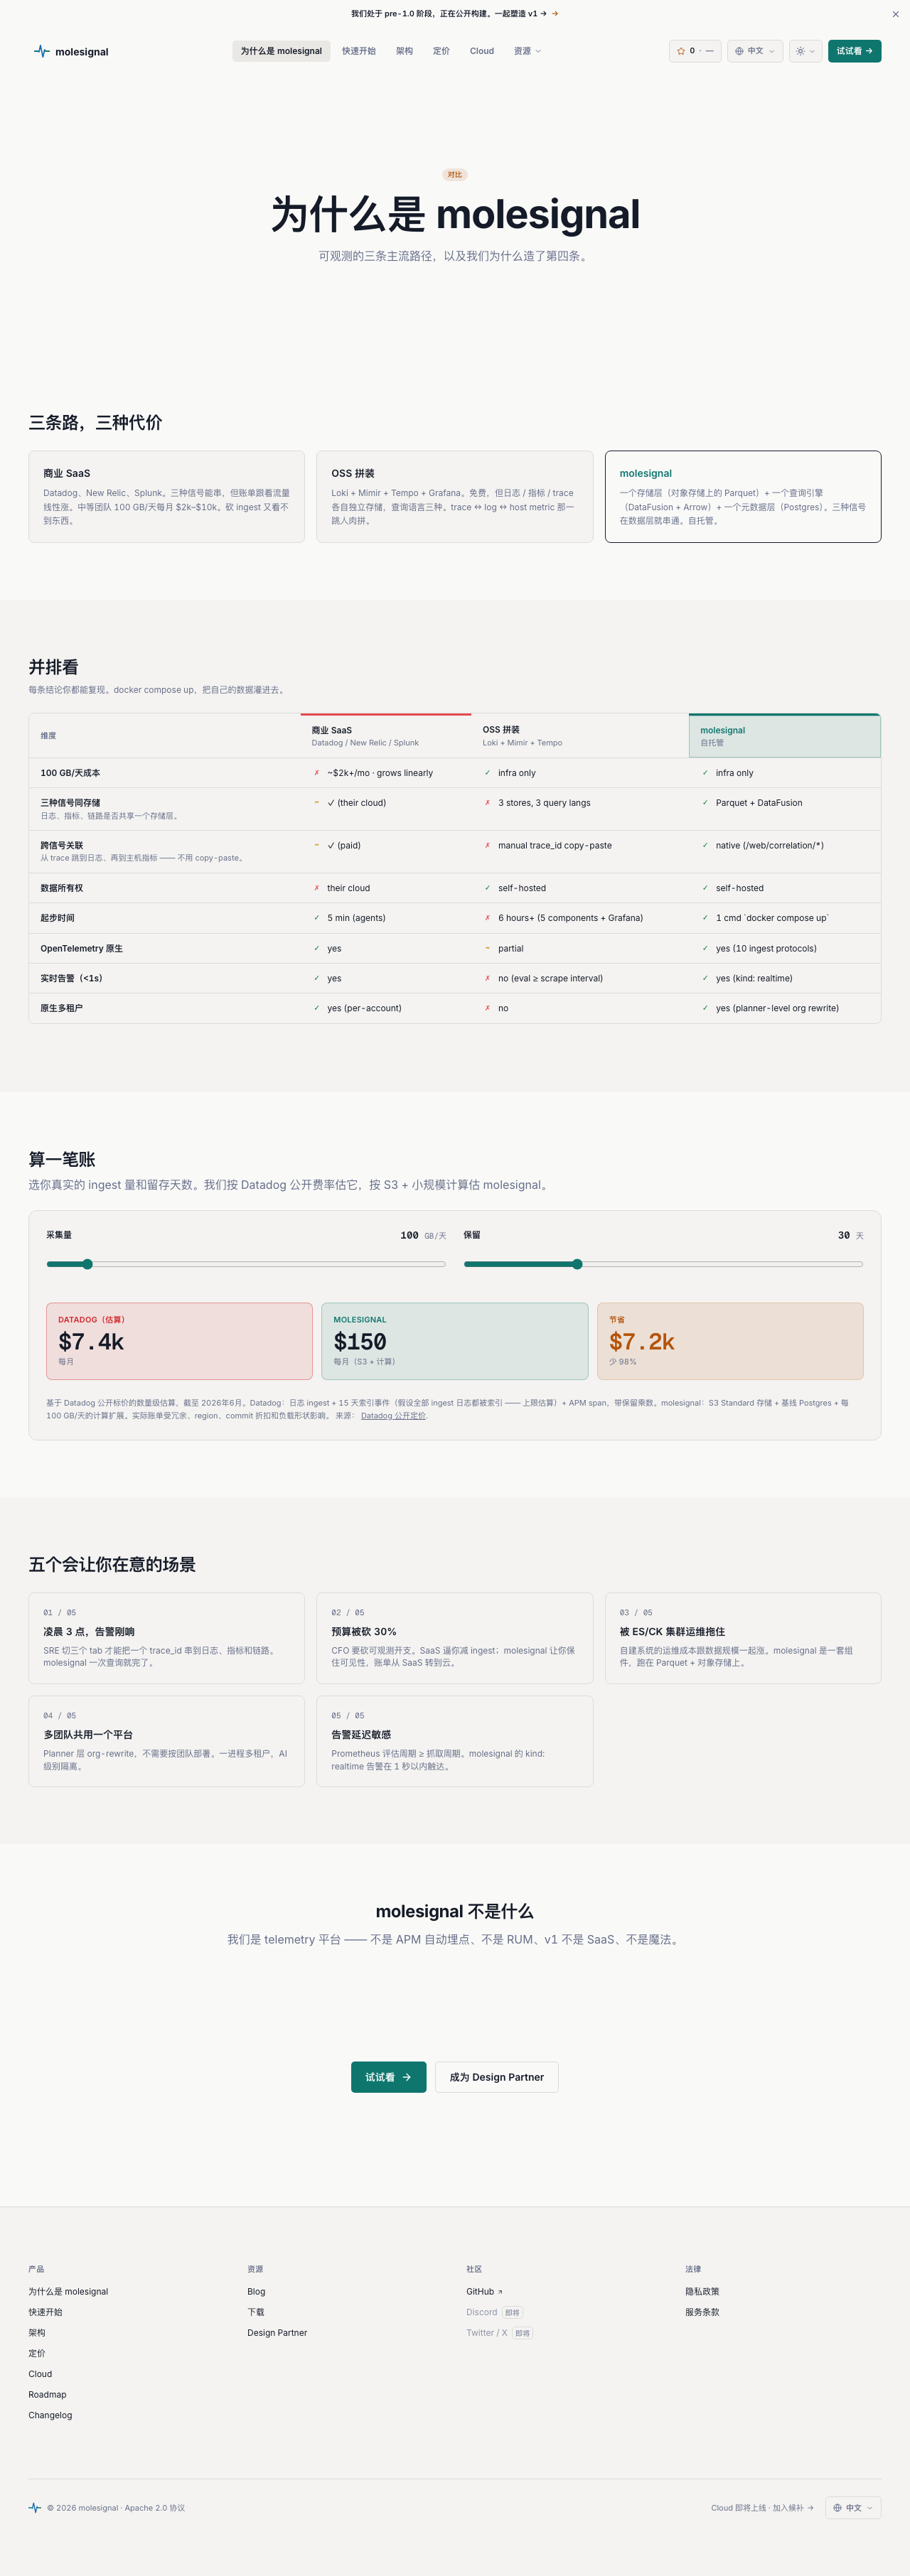
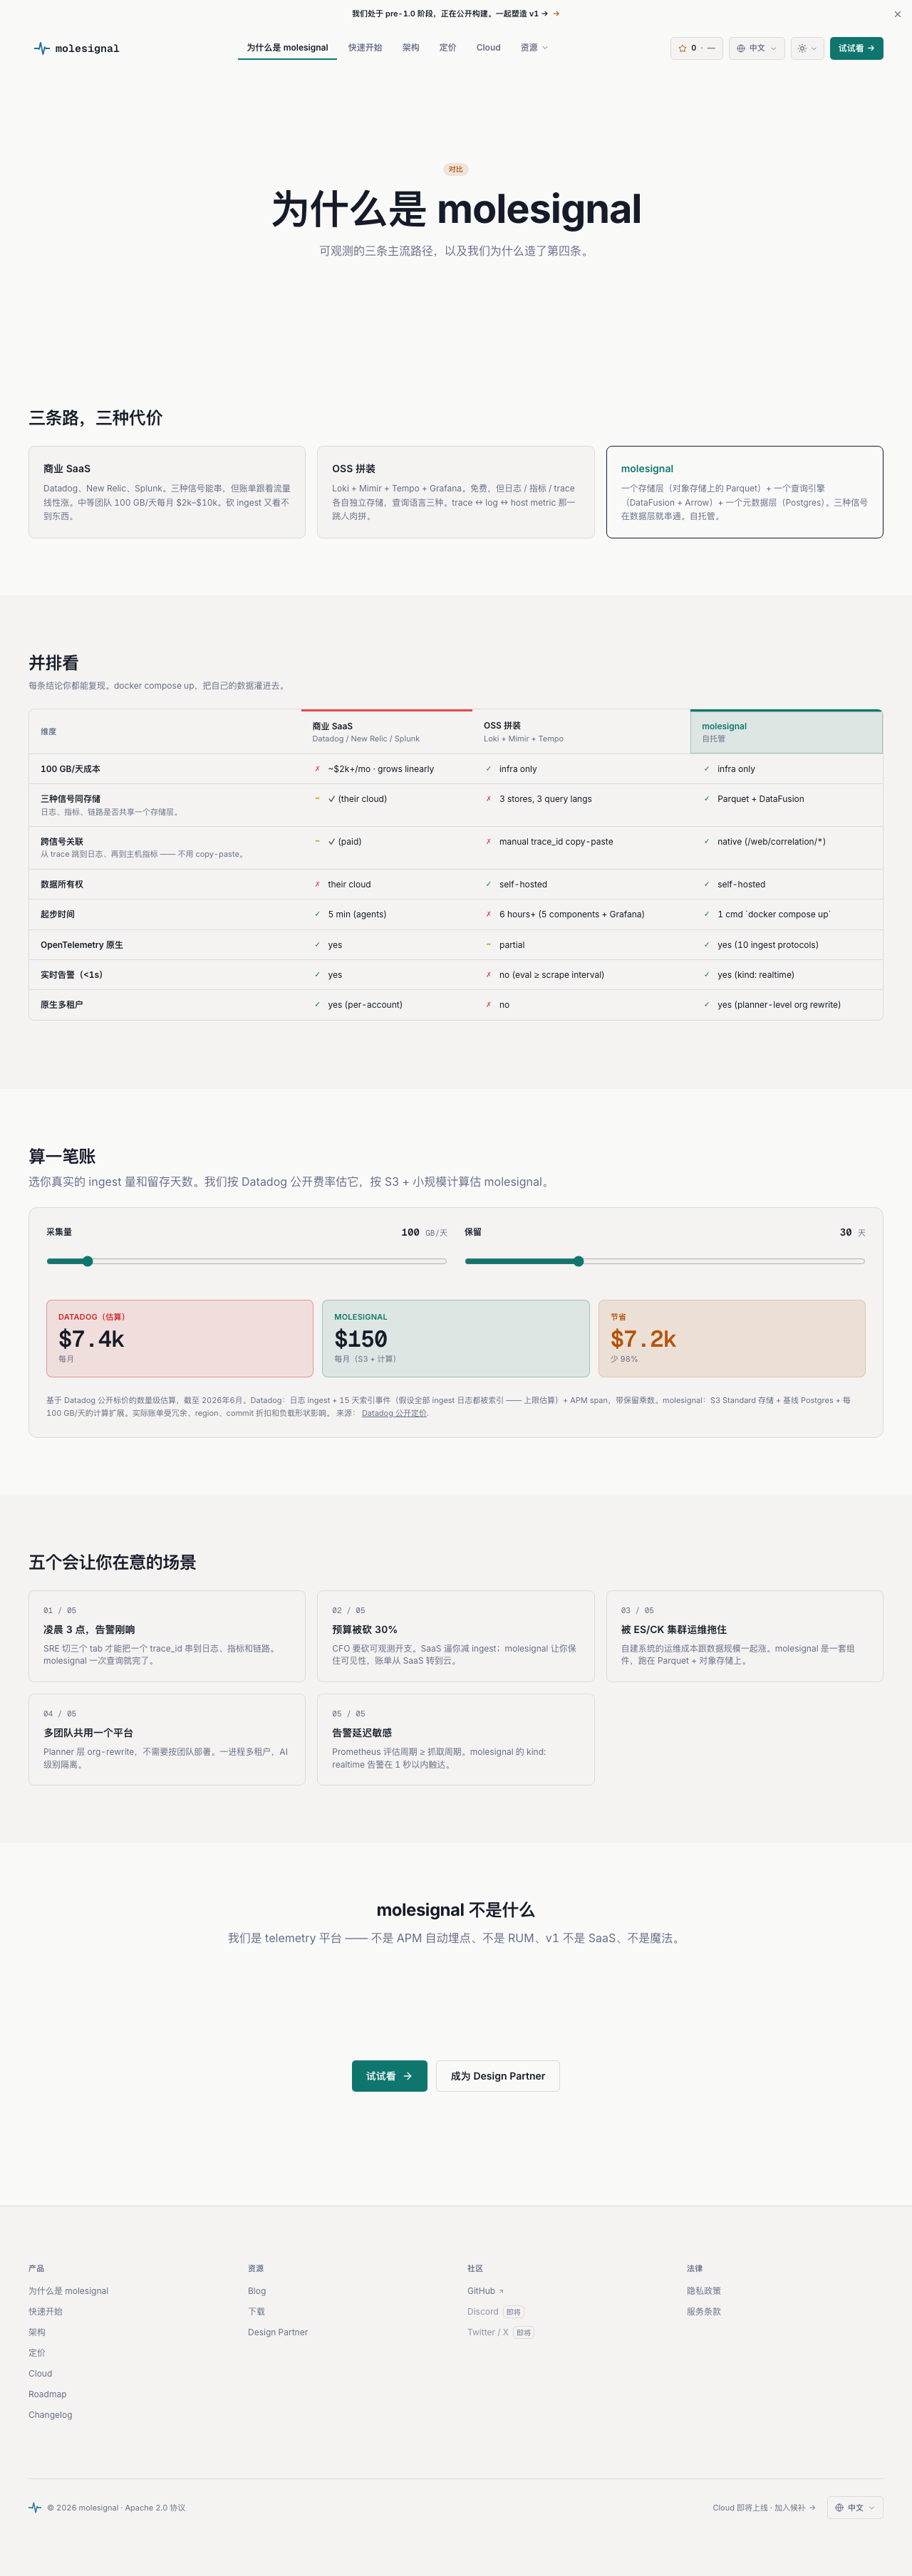
chore(ISSUE-12): 工单收尾提交(QA PASS 前)

diff --git a/tests/e2e/issue12-t08b-visual.spec.ts b/tests/e2e/issue12-t08b-visual.spec.ts
@@ -1,0 +1,201 @@
+import { expect, test } from "@playwright/test";
+
+/**
+ * ISSUE-12 / T08b — TopNav / Footer / Pill / Button visual redesign regression.
+ *
+ * Same central risk as ISSUE-10/11: a migrated design token (font-mono-strong,
+ * text-mono-lg, shadow-glow-brand, bg-brand-dim, border-brand, backdrop-blur-md)
+ * could compile to NOTHING and silently render wrong. So colour/blur assertions
+ * read the *computed* style, not just a class name.
+ *
+ *   AC1 TopNav: 56px tall; brand wordmark monospace; active item is a 2px brand
+ *       UNDERLINE (bottom border) not a filled bg pill; scroll → backdrop-blur.
+ *   AC2 Footer: 4 column titles; T04 disabled links (Discord/Twitter) keep
+ *       aria-disabled; muted default / hover-to-fg link colour.
+ *   AC3 Pill brand variant: real bg-brand-dim fill + brand border + brand text.
+ *       Button brand CTA renders with a real bg fill.
+ *   AC4 (T04 not broken): footer Download anchors /start#install; github extern.
+ */
+
+const ROOT = ""; // default locale (en) served at site root
+
+async function readColor(
+  locator: import("@playwright/test").Locator,
+  prop: "backgroundColor" | "borderBottomColor" | "borderColor" | "color",
+): Promise<[number, number, number, number]> {
+  return locator.evaluate((el, p) => {
+    const raw = getComputedStyle(el)[p as keyof CSSStyleDeclaration] as string;
+    const cvs = document.createElement("canvas");
+    cvs.width = cvs.height = 1;
+    const ctx = cvs.getContext("2d")!;
+    ctx.clearRect(0, 0, 1, 1);
+    ctx.fillStyle = raw;
+    ctx.fillRect(0, 0, 1, 1);
+    const d = ctx.getImageData(0, 0, 1, 1).data;
+    return [d[0], d[1], d[2], d[3] / 255] as [number, number, number, number];
+  }, prop);
+}
+function isPainted(rgba: [number, number, number, number]): boolean {
+  return rgba[3] > 0.001;
+}
+
+// ---------------------------------------------------------------------------
+// AC1 — TopNav
+// ---------------------------------------------------------------------------
+test.describe("[en] T08b TopNav", () => {
+  test("AC1 — nav bar is 56px tall + brand wordmark is monospace", async ({
+    page,
+  }) => {
+    await page.goto(`${ROOT}/`);
+    await page.waitForLoadState("networkidle");
+
+    const bar = page.locator("header .h-nav").first();
+    await expect(bar).toBeVisible();
+    const box = await bar.boundingBox();
+    expect(box).not.toBeNull();
+    expect(Math.round(box!.height)).toBe(56);
+
+    const wordmark = page.locator("header span", { hasText: "molesignal" }).first();
+    await expect(wordmark).toBeVisible();
+    const ff = await wordmark.evaluate((el) => getComputedStyle(el).fontFamily);
+    expect(ff.toLowerCase()).toMatch(/mono/);
+  });
+
+  test("AC1 — active nav item is a 2px brand UNDERLINE, not a filled pill", async ({
+    page,
+  }) => {
+    await page.goto(`${ROOT}/why`);
+    await page.waitForLoadState("networkidle");
+
+    // The /why primary link is active on /why.
+    const active = page
+      .locator('header nav a[href$="/why"]')
+      .first();
+    await expect(active).toBeVisible();
+
+    const bw = await active.evaluate(
+      (el) => getComputedStyle(el).borderBottomWidth,
+    );
+    expect(parseFloat(bw)).toBeGreaterThanOrEqual(2);
+    // bottom border is a painted brand colour …
+    expect(isPainted(await readColor(active, "borderBottomColor"))).toBe(true);
+    // … and it is an underline, NOT a filled background pill.
+    expect(isPainted(await readColor(active, "backgroundColor"))).toBe(false);
+  });
+
+  test("AC1 — scrolling past 80px gives the header a backdrop-blur", async ({
+    page,
+  }) => {
+    await page.goto(`${ROOT}/`);
+    await page.waitForLoadState("networkidle");
+    const header = page.locator("header").first();
+
+    // at top: transparent, no blur
+    await page.evaluate(() => window.scrollTo(0, 0));
+    await page.waitForTimeout(100);
+
+    // scroll down well past the 80px threshold
+    await page.evaluate(() => window.scrollTo(0, 600));
+    await page.waitForTimeout(250);
+
+    const bf = await header.evaluate((el) => {
+      const s = getComputedStyle(el);
+      return (
+        (s.backdropFilter || (s as unknown as Record<string, string>)["webkitBackdropFilter"]) ?? ""
+      );
+    });
+    expect(bf.toLowerCase()).toMatch(/blur/);
+    // and the surface now paints a (semi-opaque) background
+    expect(isPainted(await readColor(header, "backgroundColor"))).toBe(true);
+  });
+});
+
+// ---------------------------------------------------------------------------
+// AC2 — Footer
+// ---------------------------------------------------------------------------
+test.describe("[en] T08b Footer", () => {
+  test.beforeEach(async ({ page }) => {
+    await page.goto(`${ROOT}/`);
+    await page.waitForLoadState("networkidle");
+  });
+
+  test("AC2 — four column titles render", async ({ page }) => {
+    const titles = page.locator("footer h3");
+    await expect(titles).toHaveCount(4);
+  });
+
+  test("AC2 — T04 disabled links (Discord/Twitter) keep aria-disabled", async ({
+    page,
+  }) => {
+    const disabled = page.locator('footer [aria-disabled="true"]');
+    await expect(disabled).toHaveCount(2);
+  });
+
+  test("AC2 — footer links default to muted, hover toward fg", async ({
+    page,
+  }) => {
+    // first column nav link (Why) — should be text-fg-muted, a non-transparent
+    // colour but not the marketing primary.
+    const link = page.locator('footer a[href$="/why"]').first();
+    await expect(link).toBeVisible();
+    expect(isPainted(await readColor(link, "color"))).toBe(true);
+  });
+});
+
+// ---------------------------------------------------------------------------
+// AC3 — Pill brand variant + Button brand CTA
+// ---------------------------------------------------------------------------
+test.describe("[en] T08b Pill + Button", () => {
+  test("AC3 — Pill brand variant has a real brand-dim fill + brand border + brand text", async ({
+    page,
+  }) => {
+    await page.goto(`${ROOT}/start`);
+    await page.waitForLoadState("networkidle");
+
+    // /start hero uses <Pill variant="brand">. New spec: border border-brand/20
+    // bg-brand-dim text-brand.
+    const pill = page.locator(".bg-brand-dim").first();
+    await expect(pill).toBeVisible();
+    expect(isPainted(await readColor(pill, "backgroundColor"))).toBe(true);
+    // brand teal → green channel dominates red
+    const [r, g, b] = await readColor(pill, "color");
+    expect(g).toBeGreaterThan(r);
+    expect(g).toBeGreaterThan(b);
+    // visible border
+    const borderW = await pill.evaluate(
+      (el) => getComputedStyle(el).borderTopWidth,
+    );
+    expect(parseFloat(borderW)).toBeGreaterThanOrEqual(1);
+  });
+
+  test("AC3 — TopNav brand CTA renders with a real primary fill", async ({
+    page,
+  }) => {
+    await page.goto(`${ROOT}/`);
+    await page.waitForLoadState("networkidle");
+    const cta = page.locator('header a[href$="/start"]').last();
+    await expect(cta).toBeVisible();
+    expect(isPainted(await readColor(cta, "backgroundColor"))).toBe(true);
+  });
+});
+
+// ---------------------------------------------------------------------------
+// AC4 — T04 dead-link contract not broken
+// ---------------------------------------------------------------------------
+test.describe("[en] T08b T04 link contract", () => {
+  test.beforeEach(async ({ page }) => {
+    await page.goto(`${ROOT}/`);
+    await page.waitForLoadState("networkidle");
+  });
+
+  test("AC4 — footer Download anchors /start#install; github is external", async ({
+    page,
+  }) => {
+    const download = page.locator('footer a[href*="/start#install"]');
+    await expect(download.first()).toHaveAttribute("href", /\/start#install$/);
+
+    const gh = page.locator('footer a[href*="github.com/molesignal"]').first();
+    await expect(gh).toHaveAttribute("target", "_blank");
+    await expect(gh).toHaveAttribute("rel", /noreferrer/);
+  });
+});

diff --git a/08-测试报告.md b/08-测试报告.md
@@ -804,3 +804,49 @@ pnpm exec playwright test                       # 全量 50 例
 
 ### 提交规范
 - 单 commit `feat(ISSUE-12): TopNav/Footer/Pill/Button 视觉改造 (T08b)`，符合 Conventional Commits，标题带工单号。✓
+
+---
+
+## ISSUE-12 / T08b 自动化测试（qa-automation, 2026-06-02）
+
+> 本节为 qa-automation 独立执行结果，与上方 code-reviewer 静态审查互补。**结论：VERDICT PASS。**
+
+### 1. 测试范围
+- **E2E（浏览器，真 Chromium）**：TopNav 56px 高度 / brand 等宽字体 / active 2px brand 下划线（非背景填充）/ 滚动 backdrop-blur；Footer 四列 + T04 禁用态；Pill brand 变体真填充 + 边框 + 文字色；brand CTA 填充；T04 链接契约。
+- **回归**：T04 死链治理（issue3）、UI token 双主题（issue5）。
+- 接口层：本工单纯前端视觉改造，无 API 出入参变更，无接口测试范围。
+
+### 2. 执行环境与启动方式
+- `pnpm build`（rc=0，全部迁移 token 编译通过，是 token-未编译类回归的第一道证伪）→ `next start -p 3210` 生产渲染。
+- Playwright 1.60 / Desktop Chrome，颜色断言走 canvas 把 oklch/oklab 转 sRGB 读 computed style（避免类名假阳性）。
+
+### 3. 结果汇总
+| 套件 | 文件 | 结果 |
+|---|---|---|
+| T08b 视觉 E2E（新增） | `tests/e2e/issue12-t08b-visual.spec.ts` | **9/9 PASS** (8.1s) |
+| T04 死链回归 | `tests/e2e/issue3-t04-deadlinks.mjs` | **13/13 PASS** |
+| UI token 回归 | `tests/e2e/issue5-ui-tokens.mjs` | **29/29 PASS** |
+
+用例与验收标准映射：
+- AC① 56px + mono wordmark → PASS（boundingBox=56；fontFamily 含 mono）
+- AC① active 下划线非填充 → PASS（border-bottom≥2px+brand 已上漆；背景**未**上漆）
+- AC① 滚动 blur → PASS（backdrop-filter 含 blur + surface 背景上漆）
+- AC② 四列 + 禁用态 → PASS（h3=4；aria-disabled=2）
+- AC③ Pill/Button variants → PASS（bg-brand-dim 真填充 + brand 边框 + teal 文字；CTA primary 填充）
+- AC④ 不与 T04 冲突 → PASS（13/13 回归全绿；Download→/start#install；GitHub external）
+- AC⑤ check + build → PASS（build rc=0；详见上方审查小节 typecheck/lint/contrast/i18n 全绿）
+
+### 4. 缺陷清单
+无。阻断级缺陷 0，普通缺陷 0。
+
+### 5. 回归套件位置与重跑命令
+```bash
+pnpm build && pnpm exec playwright test tests/e2e/issue12-t08b-visual.spec.ts
+# 回归（先 next start -p 3210）：
+SITE=http://localhost:3210 node tests/e2e/issue3-t04-deadlinks.mjs
+BASE=http://localhost:3210 node tests/e2e/issue5-ui-tokens.mjs
+```
+截图证据：`test-results/issue12/{topnav-scrolled-why-active,footer,start-hero-brand-pill}.png`
+
+### 6. 放行建议
+**PASS — 建议合并回 main。** 全部验收标准经真实浏览器渲染验证通过，两套相邻回归零破坏，无阻断缺陷。